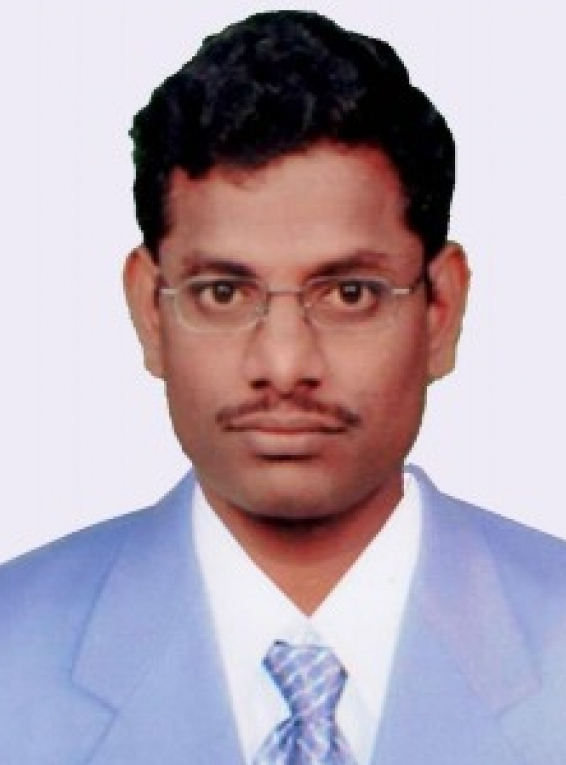
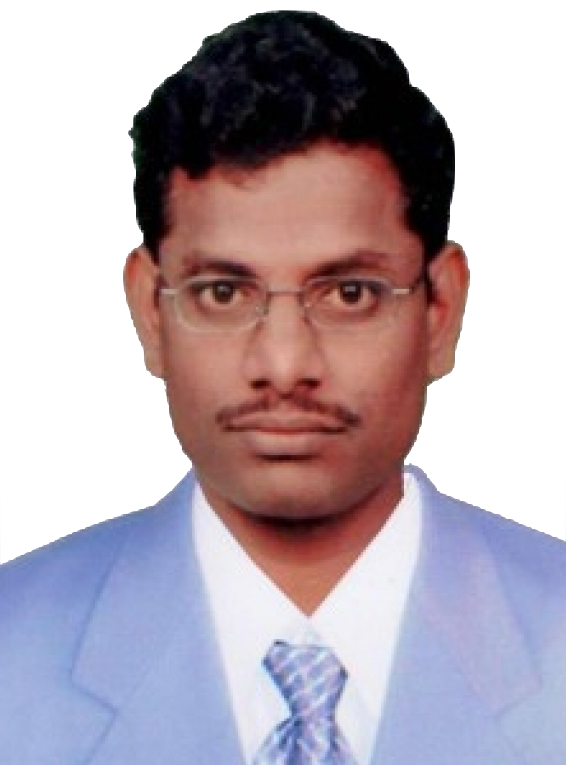
profile img

diff --git a/assets/css/main.scss b/assets/css/main.scss
@@ -65,3 +65,12 @@ html {
   opacity: 1;
 }
 
+.author__avatar img { 
+    max-width: 200px; 
+    border-radius: 5%; 
+}
+
+.author__avatar img { 
+    padding: 0px; 
+    border: 0px solid #f2f3f3; 
+}

diff --git a/assets/css/style.css b/assets/css/style.css
@@ -2438,7 +2438,7 @@ ul.level1 {
 	margin-bottom: 0px
 }
 .side-banner img {
-	width: 150%;
+	width: 200%;
 }
 /*========== 7. Products Grid ==========*/
 .page-heading {
